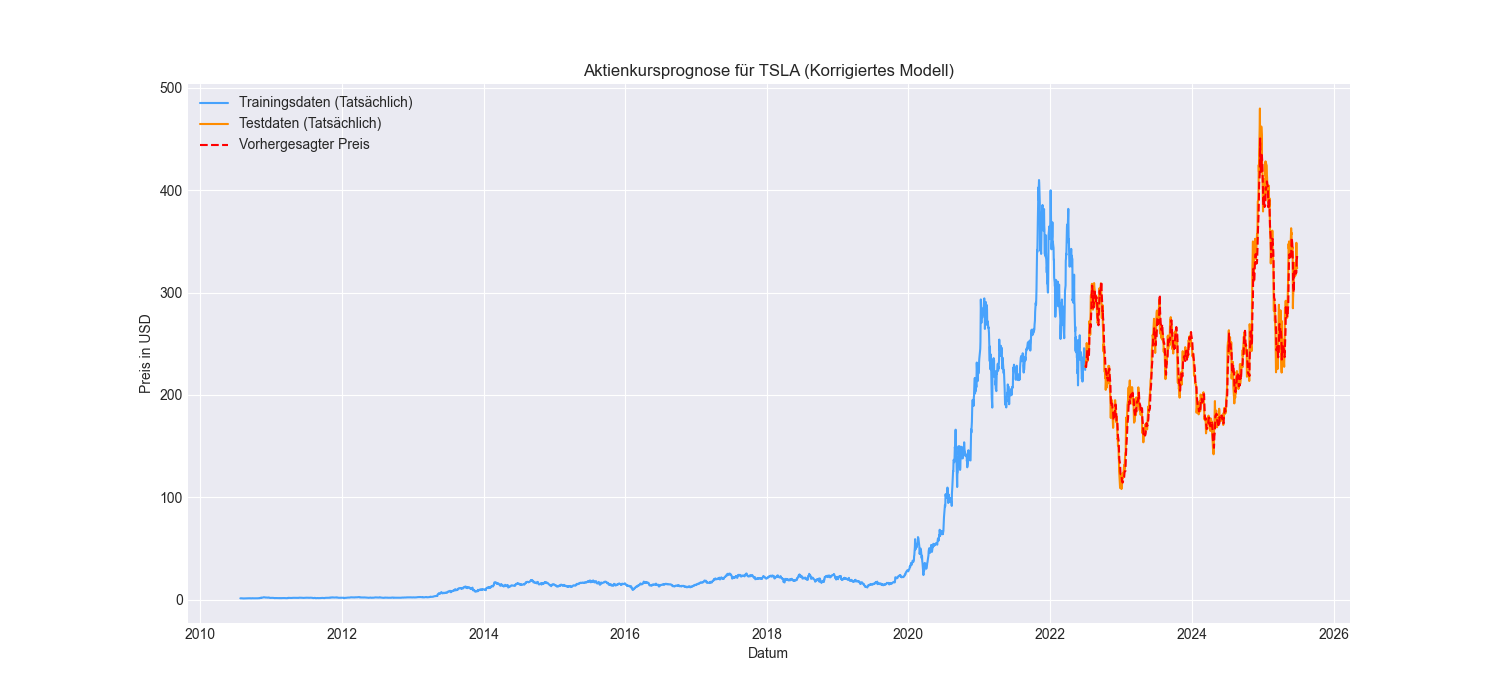
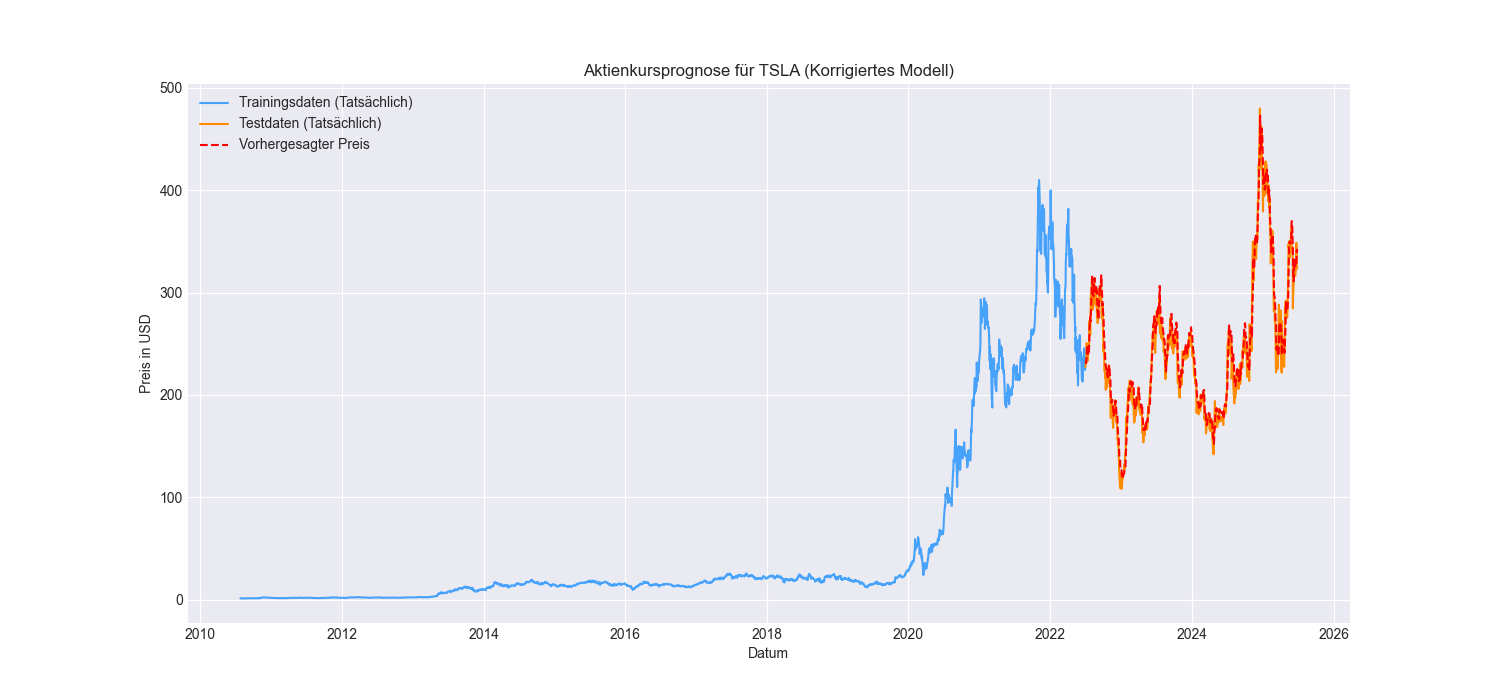
Verbesserte Vorhersagen

diff --git a/Simon/multi_stock_lstm_regression.py b/Simon/multi_stock_lstm_regression.py
@@ -189,11 +189,17 @@ for ticker in tickers:
 
     # Daten für den Plot vorbereiten
     train_df = full_df[:training_data_len]
-    test_df = full_df[training_data_len:].copy()
-    test_df['Predictions'] = stock_predictions
+    valid_df = full_df[training_data_len:].copy()
+    valid_df['Predictions'] = stock_predictions
 
-    y_actual = test_df['Close'].values
-    y_predicted = test_df['Predictions'].values
+    # Wichtig: Metriken auf den tatsächlichen und vorhergesagten Werten berechnen
+    y_actual = valid_df['Close'].values
+    y_predicted = valid_df['Predictions'].values
+
+    # NaN-Werte entfernen, falls welche durch die Zuweisung entstanden sind
+    mask = ~np.isnan(y_predicted)
+    y_actual = y_actual[mask]
+    y_predicted = y_predicted[mask]
 
     mae = mean_absolute_error(y_actual, y_predicted)
     rmse = np.sqrt(mean_squared_error(y_actual, y_predicted))
@@ -212,8 +218,8 @@ for ticker in tickers:
     plt.ylabel('Preis in USD')
     # --- NEUE FARBEN ---
     plt.plot(train_df.index, train_df['Close'], label='Trainingsdaten (Tatsächlich)', color='dodgerblue', alpha=0.8)
-    plt.plot(test_df.index, test_df['Close'], color='darkorange', label='Testdaten (Tatsächlich)')
-    plt.plot(test_df.index, test_df['Predictions'], color='red', linestyle='--', label='Vorhergesagter Preis')
+    plt.plot(valid_df.index, valid_df['Close'], color='darkorange', label='Testdaten (Tatsächlich)')
+    plt.plot(valid_df.index, valid_df['Predictions'], color='red', linestyle='--', label='Vorhergesagter Preis')
     plt.legend()
     plt.savefig(f'Simon/plots/prediction_corrected_{ticker}.png')
     plt.show()
